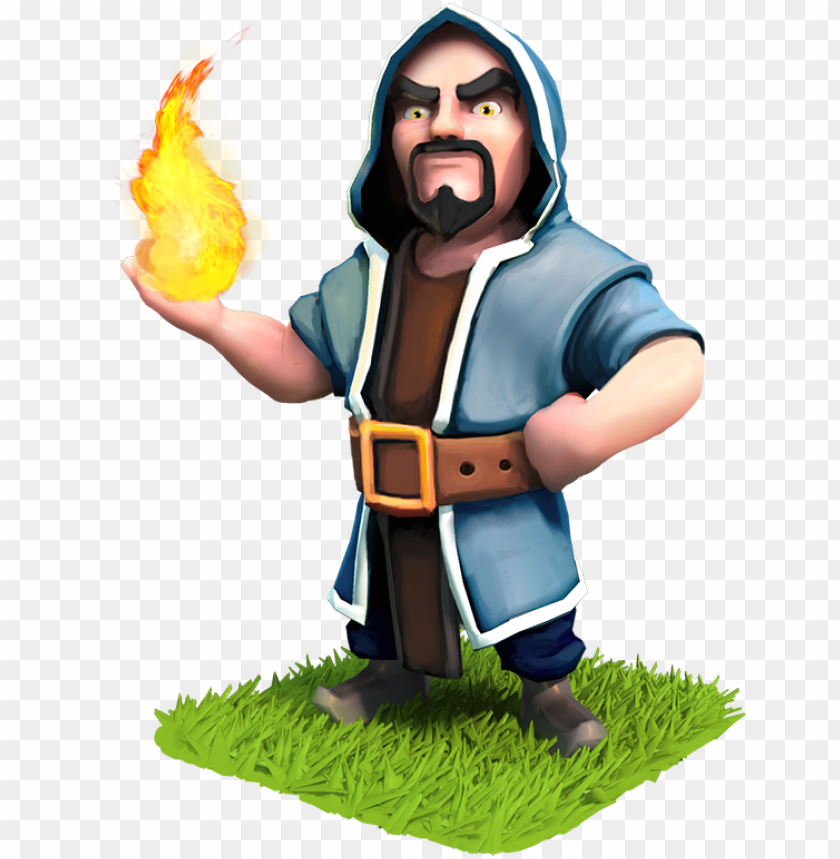
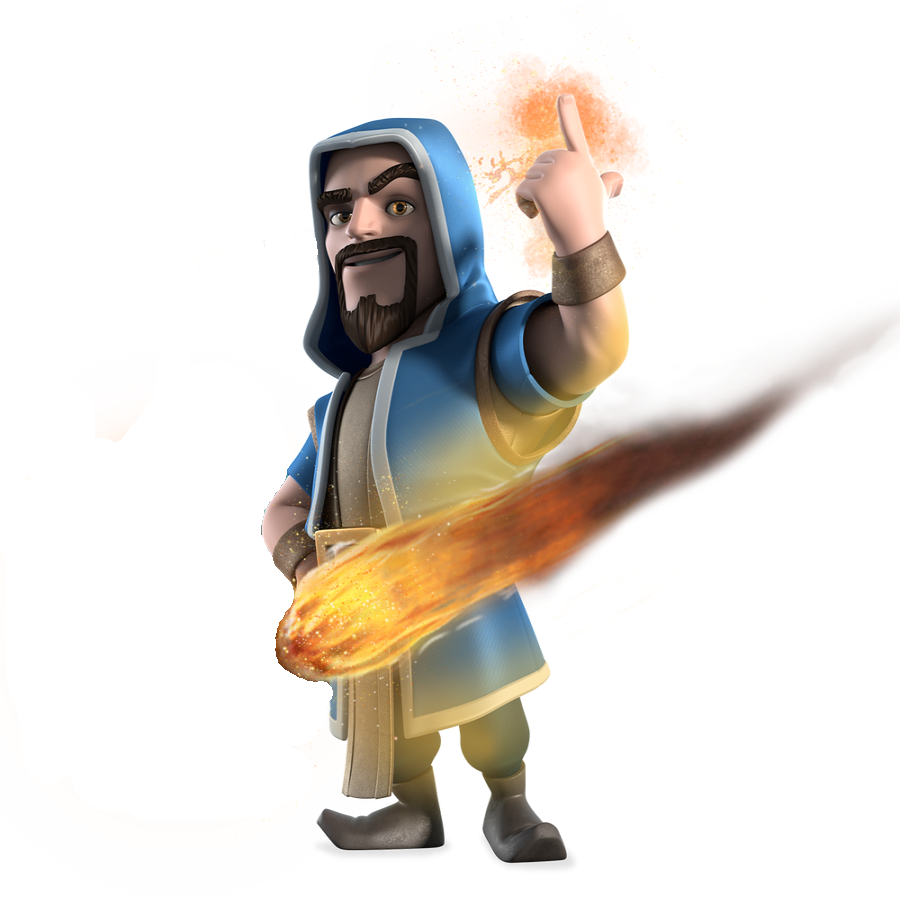
4 commit

diff --git a/src/pages/theHome.vue b/src/pages/theHome.vue
@@ -1,6 +1,6 @@
 <template>
   <div class="card__wrapper" v-for="item in items" :key="item.id">
-    <TheCard :name="`${item.lvl} lvl`" :title="item.title">
+    <TheCard :name="`${item.lvl} lvl`" :title="item.title" :imgUrl="item.img">
       {{ item.descr }}
     </TheCard>
   </div>
@@ -8,26 +8,13 @@
 
 <script>
 import TheCard from '@/components/UI/TheCard'
+import items from '@/seeders/items.js'
 
 export default {
   components: { TheCard },
   data() {
     return {
-      items: [
-        {
-          id: 1,
-          title: 'Archer',
-          descr: 'archer archer archer archer archer archer',
-          img: require(''),
-          lvl: 4
-        },
-        {
-          id: 2,
-          title: 'Wizard',
-          descr: 'wizard wizard wizard wizard wizard wizard',
-          lvl: 5
-        },
-      ]
+      items: items
     }
   }
 }

diff --git a/src/components/UI/TheCard.vue b/src/components/UI/TheCard.vue
@@ -1,7 +1,10 @@
 <template>
   <div class="card">
-    <span class="card-name">{{name}}</span>
-    <span class="card-title">{{title}}</span>
+    <div v-if="imgUrl" class="card-img__wraper">
+      <img class="card-img" :src="imgUrl" :alt="title" />
+    </div>
+    <span class="card-name">{{ name }}</span>
+    <span class="card-title">{{ title }}</span>
     <div class="card-body">
       <slot></slot>
     </div>
@@ -19,6 +22,9 @@ export default {
       type: String,
       required: true
     },
+    imgUrl: {
+      type: String
+    }
   }
 }
 </script>

diff --git a/src/seeders/items.js b/src/seeders/items.js
@@ -1,0 +1,23 @@
+export default [
+  {
+    id: 1,
+    title: 'Archer',
+    descr: 'archer archer archer archer archer archer',
+    img: require('@/assets/img/archer.png'),
+    lvl: 4
+  },
+  {
+    id: 2,
+    title: 'Wizard',
+    descr: 'wizard wizard wizard wizard wizard wizard',
+    img: require('@/assets/img/wizard.png'),
+    lvl: 5
+  },
+  {
+    id: 3,
+    title: 'Goblin',
+    descr: 'Goblin Goblin Goblin Goblin Goblin Goblin',
+    img: require('@/assets/img/goblin.png'),
+    lvl: 5
+  }
+]

diff --git a/src/main.js b/src/main.js
@@ -1,6 +1,6 @@
 import { createApp } from 'vue'
 import App from './App.vue'
-import '../assets/scss/main.scss'
+import '@/assets/scss/main.scss'
 import routers from './routes'
 
 const app = createApp(App)
